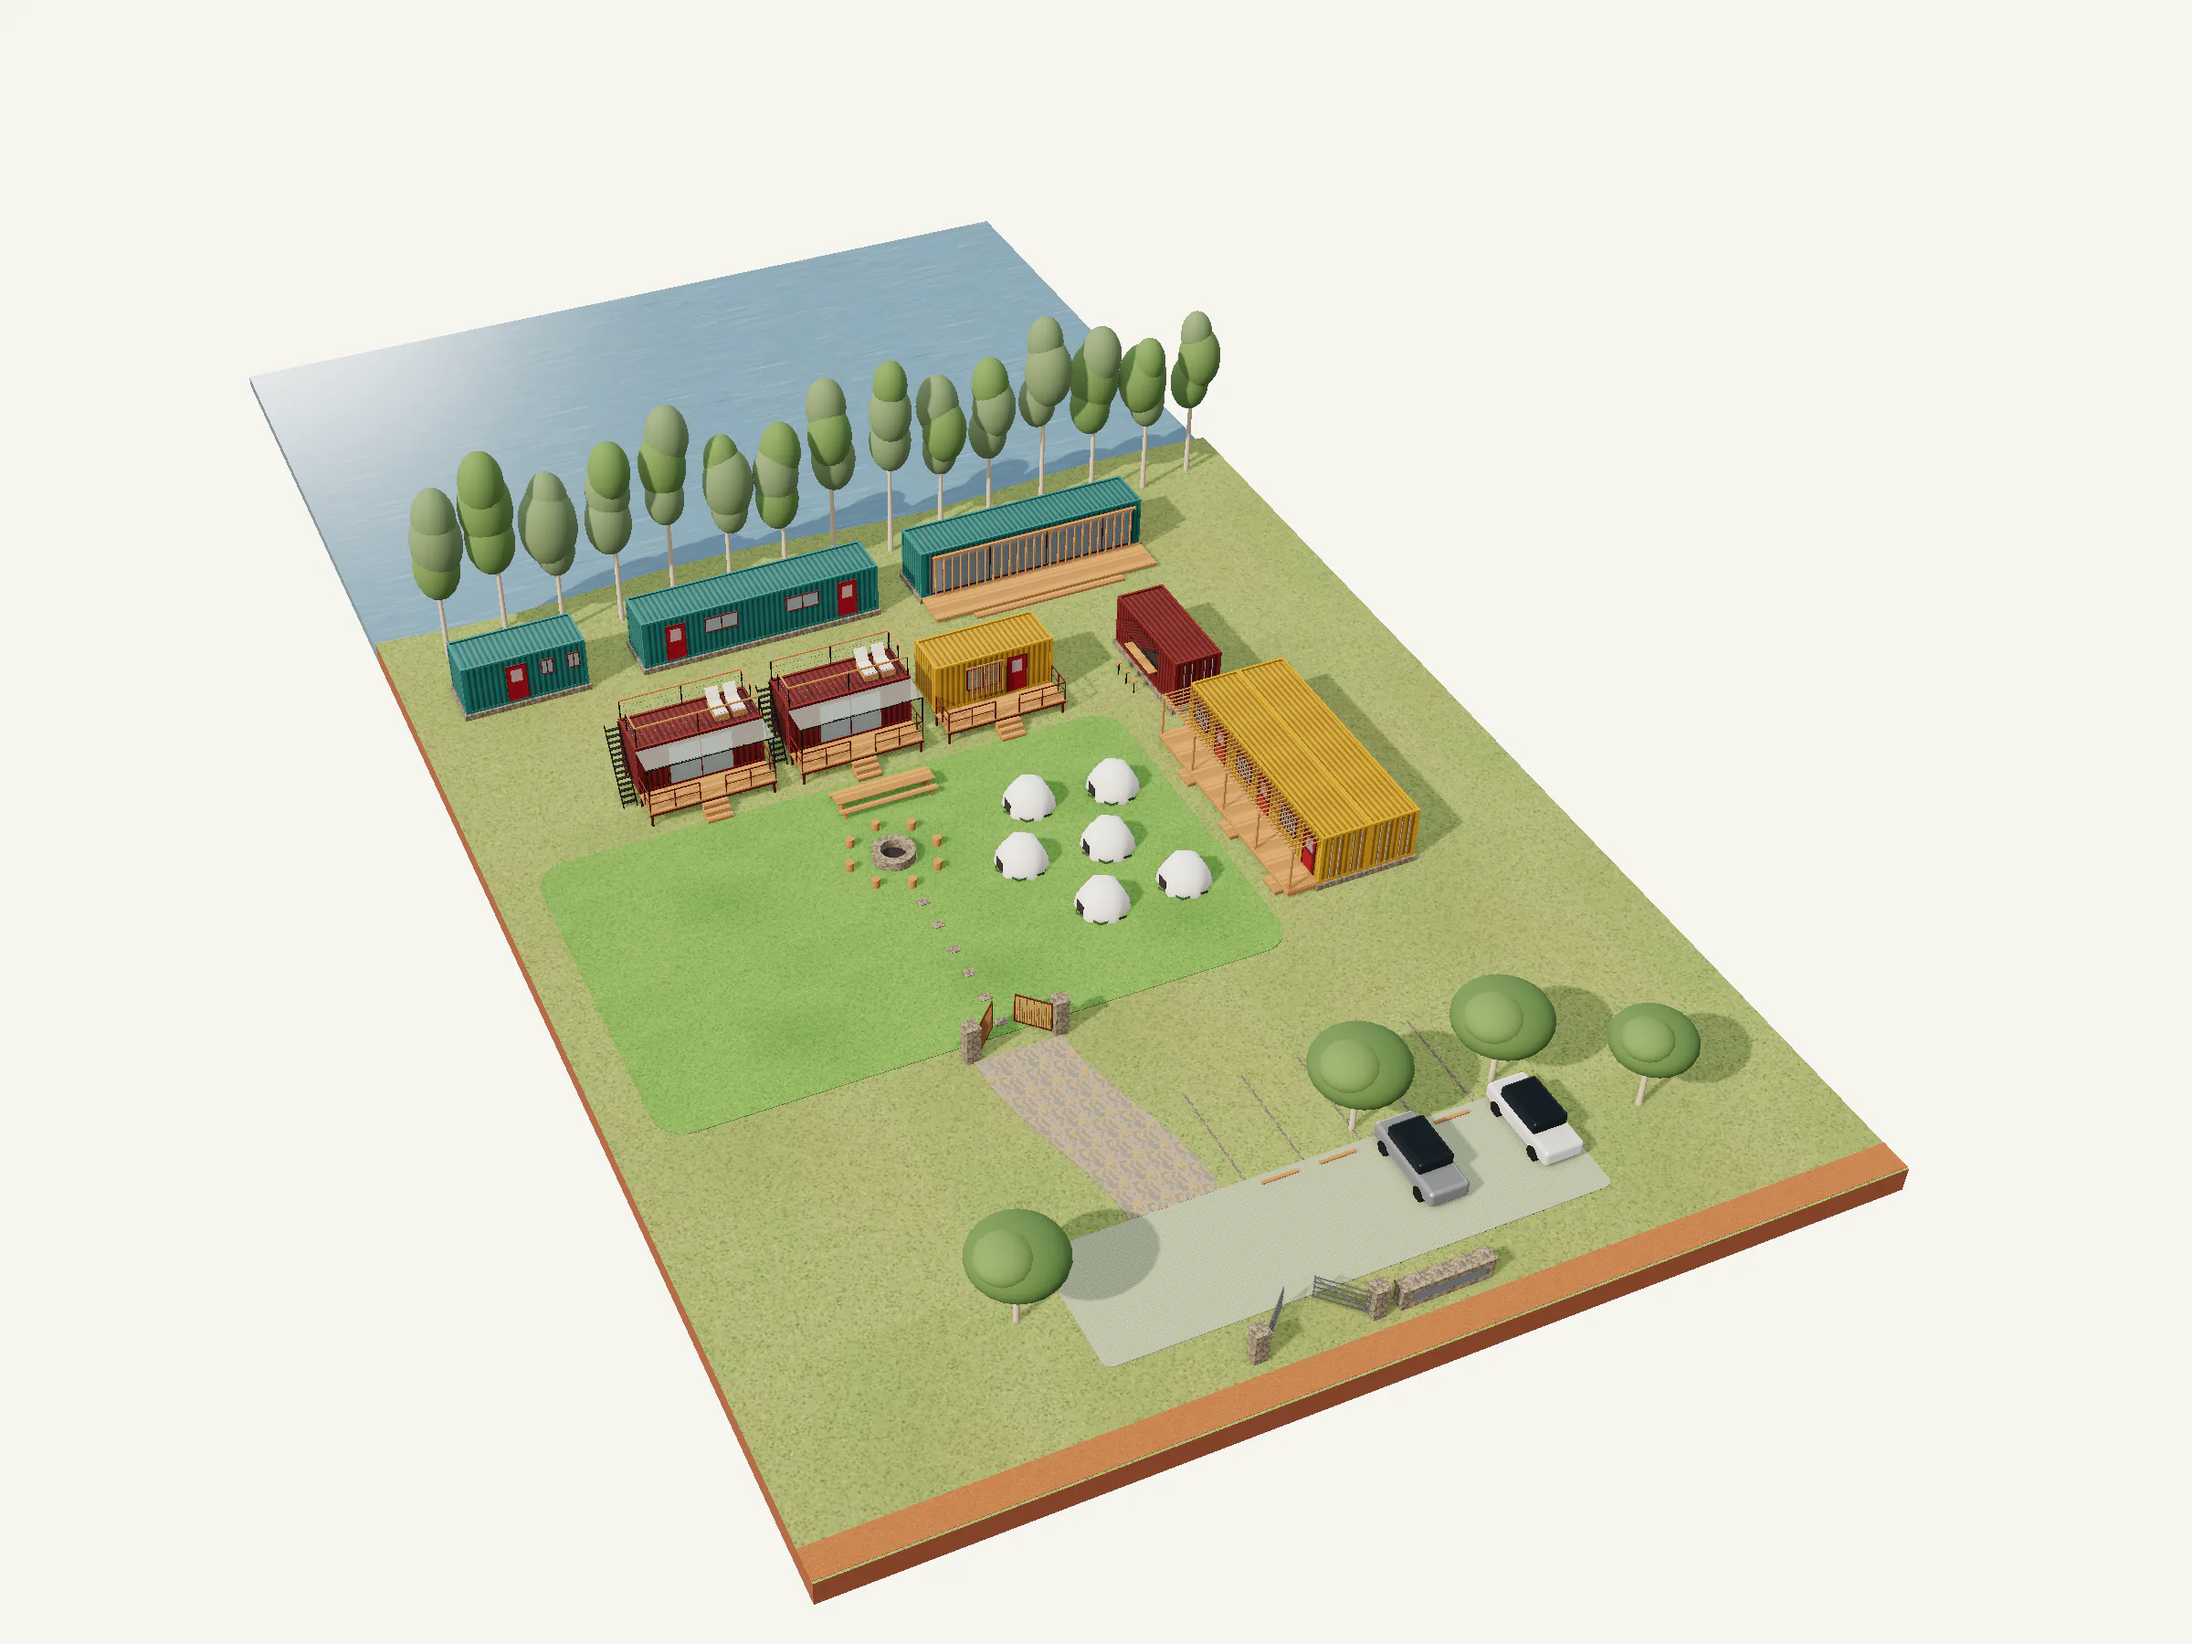
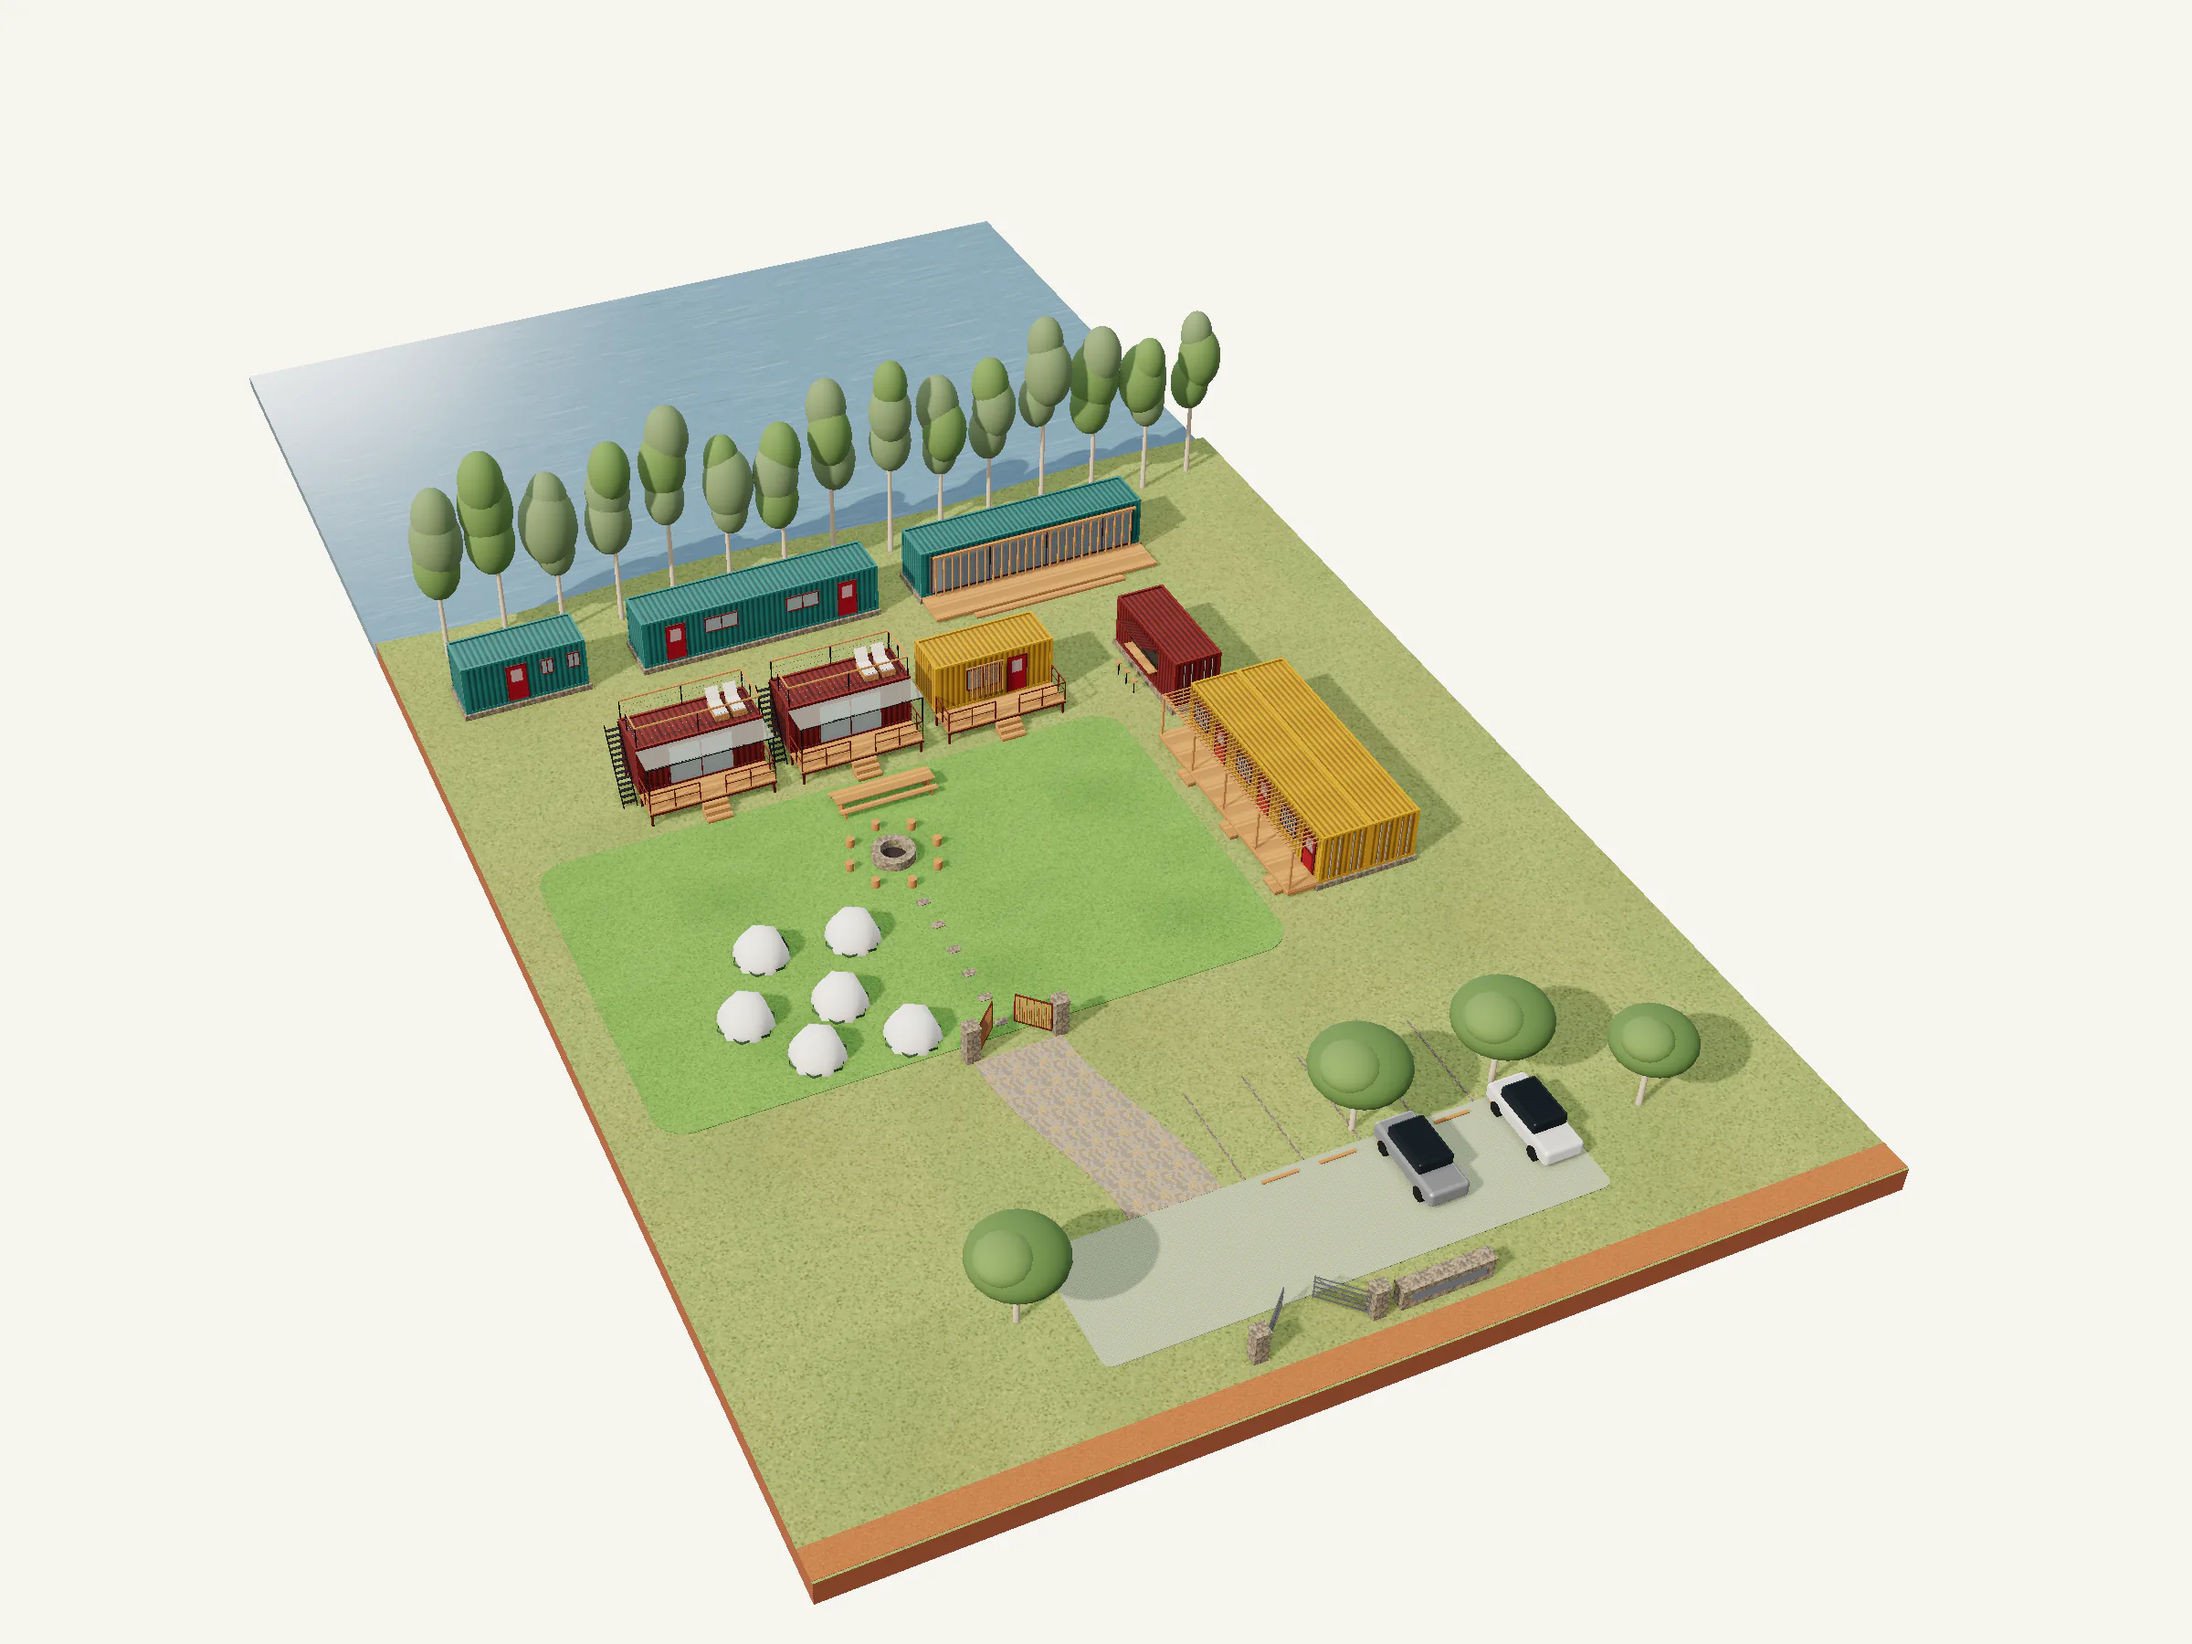
style(home): camping moves to the courtyard's corner by the inner gate
The founder moved the camping lawn right and down on the 2D: across the fire
pit from the guest rooms, above the inner gate. Tent doors in the 3D now
face the fire pit wherever the tents stand; both drawings are redone.

Claude-Session: https://claude.ai/code/session_01S6J7Hi5HC8BwLHu6Wj1ANE

Changed region(s): [[0.3125, 0.5289, 0.4375, 0.6533], [0.4375, 0.4667, 0.5625, 0.56]]

diff --git a/src/components/home/copy.ts b/src/components/home/copy.ts
@@ -52,12 +52,12 @@ export const copy = {
   plans: {
     title: "2D",
     label:
-      "Plan of the compound, with the study room at the top and the gates at the bottom. At the top, the 40 ft study room on its deck, and beside it two buildings of their own: a 40 ft galley with a long worktop and two sinks, and a 20 ft public bathroom with two toilet rooms, two hand basins and a urinal. Below it, the row of three 20 ft containers on raised decks facing the courtyard: the farm office next to the bar, then two studios. Down the left, the bar and then the guest-room block in one line, their doors onto the veranda and the courtyard lawn: six small tents on a camping lawn beside the guest rooms, then the stone fire pit with stools round it, and a long timber table in front of the middle studio. The study room's end is in line with the guest rooms. At the bottom, the inner gate, a rock road down to the green parking, and the outer gate beside the Digital Farm sign wall.",
+      "Plan of the compound, with the study room at the top and the gates at the bottom. At the top, the 40 ft study room on its deck, and beside it two buildings of their own: a 40 ft galley with a long worktop and two sinks, and a 20 ft public bathroom with two toilet rooms, two hand basins and a urinal. Below it, the row of three 20 ft containers on raised decks facing the courtyard: the farm office next to the bar, then two studios. Down the left, the bar and then the guest-room block in one line, their doors onto the veranda and the courtyard lawn: the stone fire pit with stools round it, a long timber table in front of the middle studio, and six small tents on a camping lawn in the courtyard's corner by the inner gate. The study room's end is in line with the guest rooms. At the bottom, the inner gate, a rock road down to the green parking, and the outer gate beside the Digital Farm sign wall.",
     note: "Illustrative plan: containers drawn to size, layout not surveyed.",
   },
   model: {
     title: "3D",
-    line: "Line drawing of the compound from the air, seen from the entrance and looking toward the lake: the gate, the parking and the rock road in front; on the right, the bar and the guest-room block with their doors onto the courtyard, six small tents on the lawn beside them, and the fire pit ringed with stools; across the lawn, a long timber table and the office and two studios on raised decks; the study room beyond them; then trees and the lake.",
+    line: "Line drawing of the compound from the air, seen from the entrance and looking toward the lake: the gate, the parking and the rock road in front; on the right, the bar and the guest-room block with their doors onto the courtyard and its fire pit ringed with stools; six small tents on the lawn by the inner gate; across the lawn, a long timber table and the office and two studios on raised decks; the study room beyond them; then trees and the lake.",
     real: "The same view rendered with materials and sunlight: the saffron-yellow guest rooms and office, the oxide-red bar and studios on timber decks, the teal study room, white pop-up tents and a green lawn around the stone fire pit with its log stools, a long timber table, grass parking and a stone road, eucalyptus along the shore and the lake.",
     caption: "Rendered from the design model",
   },

diff --git a/scripts/site/render/compound.html b/scripts/site/render/compound.html
@@ -615,7 +615,7 @@ for (const [id, windows] of [["galley", [[3.2, 4.8], [7.4, 9.0]]], ["bath", [[0.
 }
 
 // ------------------------------------------------------------ outdoors (D-022)
-// Six small pop-up tents on the camping lawn between the guest rooms and the fire pit, a long timber
+// Six small pop-up tents on the camping lawn in the courtyard's corner by the inner gate, a long timber
 // table with benches in front of the middle studio, and log stools round the fire pit.
 {
   const O = C.outdoor, t = O.tent
@@ -623,7 +623,9 @@ for (const [id, windows] of [["galley", [[3.2, 4.8], [7.4, 9.0]]], ["bath", [[0.
     const dome = add(new THREE.SphereGeometry(t, 6, 4, 0, Math.PI * 2, 0, Math.PI / 2), "tent", { pos: [x, 0.035, z], scale: [1, 1.25, 1] })
     dome.rotation.y = Math.PI / 6
     add(new THREE.CylinderGeometry(t + 0.01, t + 0.01, 0.14, 6, 1, true), "trim", { pos: [x, 0.105, z], rot: [0, Math.PI / 6, 0] })
-    blk(x + t * 0.86 - 0.02, z - 0.3, x + t * 0.86 + 0.01, z + 0.3, 0.05, 0.6, "inside", { noShadow: true }) // the door, toward the fire
+    // the door on the face toward the fire pit
+    const toward = Math.round(Math.atan2(C.courtyard.firePit[1] - z, C.courtyard.firePit[0] - x) / (Math.PI / 3)) * (Math.PI / 3)
+    group(() => blk(t * 0.86 - 0.02, -0.3, t * 0.86 + 0.01, 0.3, 0.05, 0.6, "inside", { noShadow: true }), [x, 0, z], -toward)
   }
   const { x, y, length, width, bench, gap } = O.longTable
   const [a, b] = [x - length / 2, x + length / 2]

diff --git a/src/components/home/compound-plan.tsx b/src/components/home/compound-plan.tsx
@@ -266,7 +266,7 @@ function Bath({ unit }: { unit: Unit }) {
 }
 
 // What the 2026-10-25 footage shows outside, as the founder wants it planned (D-022): six small pop-up
-// tents on a camping lawn between the guest rooms and the fire pit, a long timber table with benches
+// tents on a camping lawn in the courtyard's corner by the inner gate, a long timber table with benches
 // where today's unfinished platform stands, and stools round the fire pit. Each at true size.
 const outdoor = compound.outdoor
 function Outdoor() {

diff --git a/study/website/render-brief.md b/study/website/render-brief.md
@@ -26,7 +26,7 @@ The homepage shows the compound as it is planned, not as it stands. Its images a
   - **West side (on the right as you walk in):** the guest-room block. Two 40 ft containers are joined side by side into one long, low saffron-yellow building, about 12 × 4.9 m. It holds three en-suite rooms, each about 19 m² [E, D-017] with a bed, shower and WC but no kitchen. Each room has an oxide-red door and window onto a shared eucalyptus veranda.
   - **South side, at 90° (across the lawn as you walk in):** three 20 ft containers in a row on the existing raised oxide-red steel decks, their decks facing the courtyard. The **first, next to the guest rooms, is the farm office** in saffron yellow; the other two are **studios** in deep oxide red, built to the studio design (`/en/studio`, Layout B, D-020): a 3 m sliding glass wall onto a deck under a tinted clear canopy, a galley kitchen, a two-seat sofa, a shower and WC, and an open roof terrace behind a post-and-rail guardrail, with no canopy over it.
   - **Further out, toward the lake:** one 40 ft **study and training room** in muted teal, its west end in line with the guest-room block, with tall glazed doors along its north side onto a timber deck.
-- **Outdoors (from the 2026-10-25 footage, D-022).** A small camping lawn inside the courtyard between the guest-room veranda and the fire pit: six light-canvas pop-up dome tents (about 2.5 m across), doors toward the fire. Log stools in a ring round the fire pit. A long eucalyptus table with two benches on the lawn in front of the middle studio, where today's unfinished timber platform stands.
+- **Outdoors (from the 2026-10-25 footage, D-022).** A small camping lawn in the courtyard's corner by the inner gate, across the fire pit from the guest rooms: six light-canvas pop-up dome tents (about 2.5 m across), doors toward the fire. Log stools in a ring round the fire pit. A long eucalyptus table with two benches on the lawn in front of the middle studio, where today's unfinished timber platform stands.
 - **Seven containers in all** (the bar, the joined pair, the office, two studios, the study room). Nothing is stacked, and nothing else is built. The compound sits back from the lake behind a band of trees; nothing new stands at the water's edge (the 50 m lake buffer).
 
 ## 3. Site bible and reference line

diff --git a/study/execution/decision-log.md b/study/execution/decision-log.md
@@ -82,3 +82,5 @@ Update 2026-10-27 (D-022): the founder swapped the bar and the guest rooms: the 
 Update 2026-10-27 (D-022): beside the study room the founder adds a galley and a bathroom as two separate buildings, made bigger at the founder's request: a 40 ft galley (a long worktop, two sinks) and a 20 ft public bathroom with two toilet rooms, two hand basins and a urinal (sizes assumed, not given); nine containers in all. On the 2D the entry gates are drawn simply, posts and a closed gate, and sit a little further down with the parking.
 
 Update 2026-10-27 (D-022): the plan was compared with the site footage of 2026-10-25. The buildings already match what stands (the stone fire pit stays where it is). Added at the founder's choice: a small camping lawn of six pop-up tents inside the courtyard between the guest rooms and the fire pit (today 6-8 tents stand on the open lawn past the guest rooms), log stools round the fire pit (none today), and a long timber table with benches where today's unfinished timber platform stands in front of the middle studio. Today's umbrella tables are not drawn. The way in (gates, sign, parking, rock road) now sits further from the courtyard in compound.json itself, so the 2D and 3D agree.
+
+Update 2026-10-27 (D-022): the founder moved the camping lawn to the courtyard's corner by the inner gate, across the fire pit from the guest rooms (right and down on the homepage 2D).
